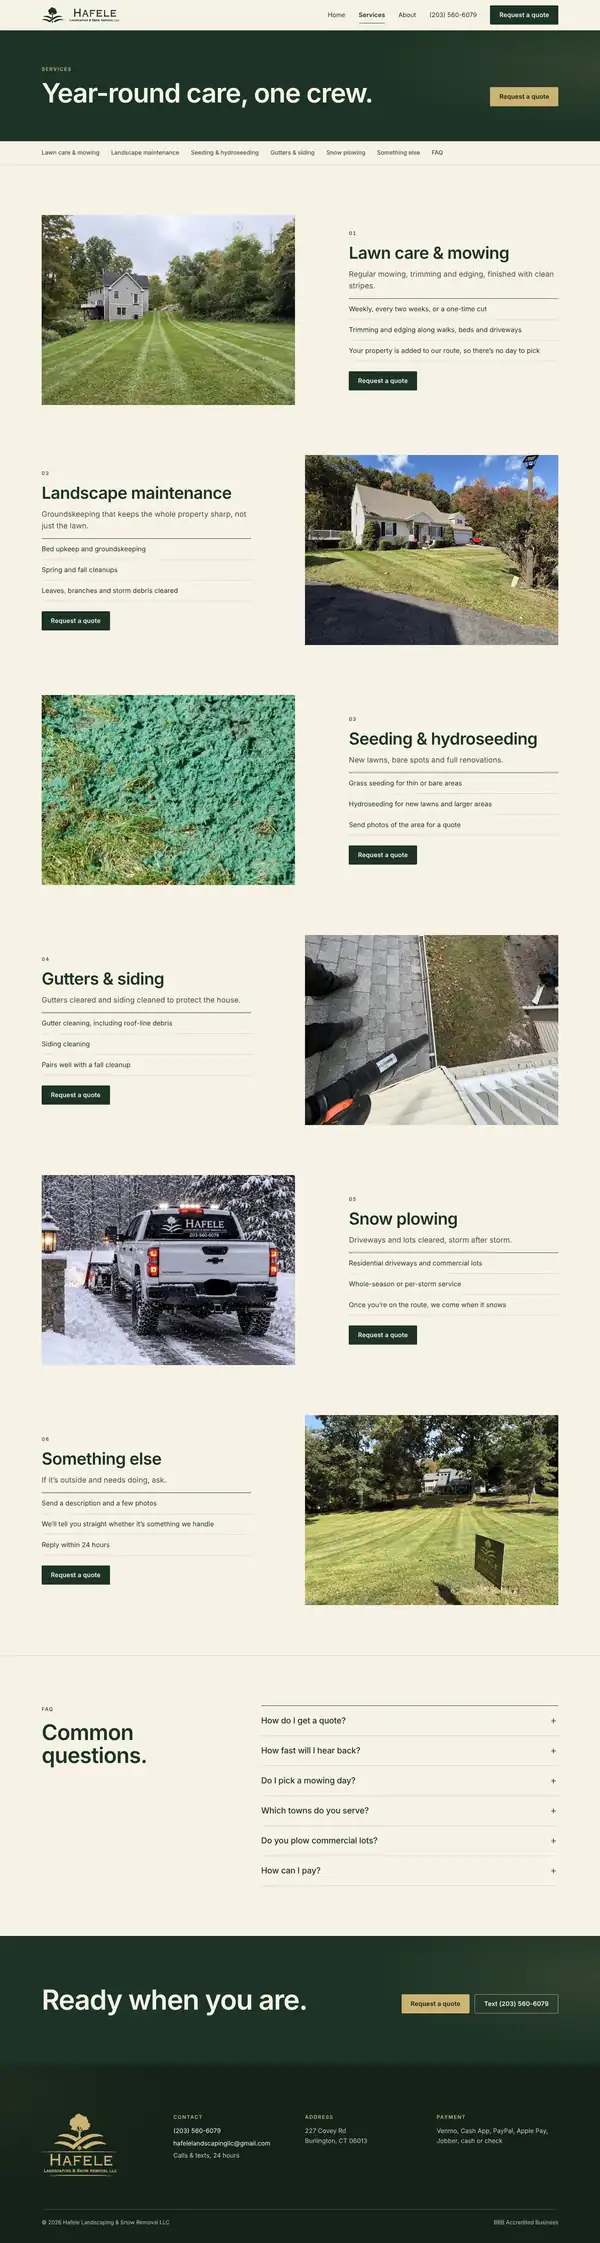
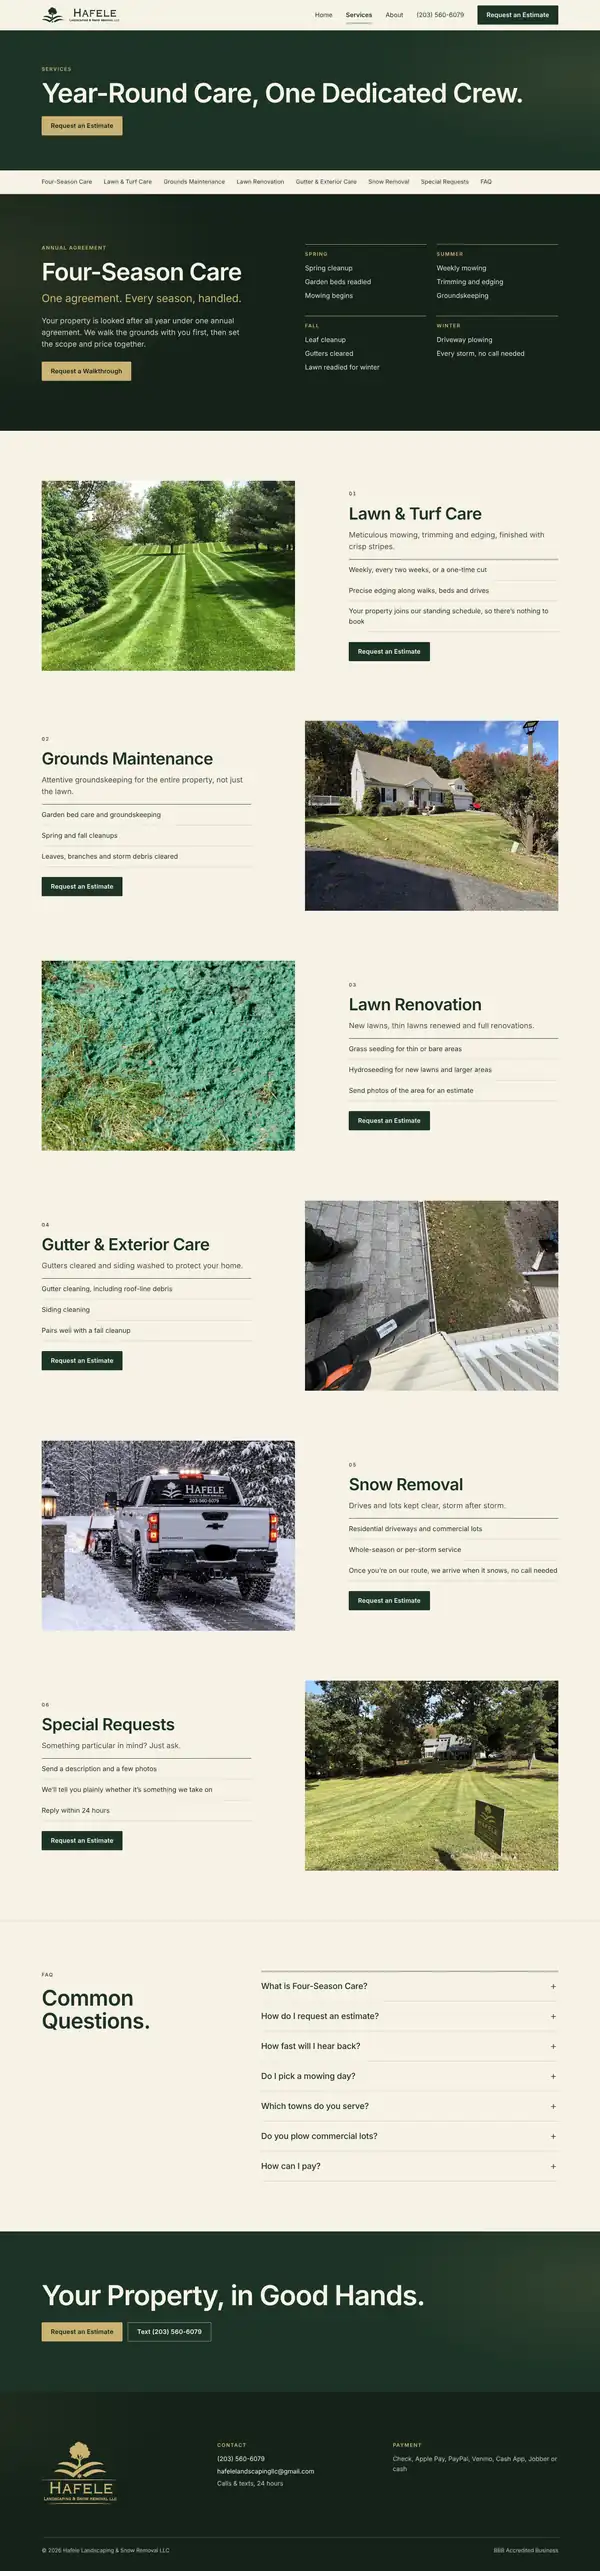
Update Hafele showcase for the seasonal site
- Re-shoot Home, Services and About on desktop and phone (seasonal
  hero, Four-Season Care band, refined service names, title case)
- Write-up: seasons chosen by date, Four-Season Care annual agreement,
  estimate wording, smooth scrolling
- Bump screenshot version so browsers load the new images

Claude-Session: https://claude.ai/code/session_01S1GkKjA7JTsXNm3XxvC6Wo

diff --git a/index.html b/index.html
@@ -9,12 +9,12 @@
 <meta property="og:url" content="https://b0to1q.github.io/BRANDED-BY-G/">
 <meta property="og:title" content="Branded by G">
 <meta property="og:description" content="Websites for local businesses in Connecticut. Built right. Owned by you.">
-<meta property="og:image" content="https://b0to1q.github.io/BRANDED-BY-G/og.png?v=3">
+<meta property="og:image" content="https://b0to1q.github.io/BRANDED-BY-G/og.png?v=4">
 <meta property="og:image:width" content="1200">
 <meta property="og:image:height" content="630">
 <meta property="og:image:alt" content="Branded by G.">
 <meta name="twitter:card" content="summary_large_image">
-<meta name="twitter:image" content="https://b0to1q.github.io/BRANDED-BY-G/og.png?v=3">
+<meta name="twitter:image" content="https://b0to1q.github.io/BRANDED-BY-G/og.png?v=4">
 <meta name="theme-color" content="#2A2D2B">
 <link rel="preconnect" href="https://fonts.googleapis.com">
 <link rel="preconnect" href="https://fonts.gstatic.com" crossorigin>
@@ -152,7 +152,7 @@ dl.spec a{color:var(--c-acc)}
 .zvp{flex:1;min-height:0;overflow-y:auto;overscroll-behavior:contain;background:#fff;-webkit-overflow-scrolling:touch}
 .zvp img{display:block;width:100%;height:auto}
 .zvp{background-color:#fff;background-size:cover;background-position:center top;background-repeat:no-repeat}
-.shot.bgdani{background:#0B1416 url(img/v3/bg-dani-d.webp?v=3) center top/cover no-repeat}
+.shot.bgdani{background:#0B1416 url(img/v3/bg-dani-d.webp?v=4) center top/cover no-repeat}
 .zframe.phone{width:min(392px,100%);border-radius:34px;padding:4px}
 .zframe.phone .bar{display:none}
 .zframe.phone .zvp{border-radius:30px}
@@ -227,9 +227,9 @@ a:focus-visible{outline:3px solid var(--acc);outline-offset:3px;border-radius:4p
       <p class="where">George Blanchard Jr. · Plantsville, Connecticut</p>
     </div>
     <div class="stage" aria-hidden="true">
-      <div class="br s1"><div class="bar"><i></i><i></i><i></i><span>Hafele Landscaping &amp; Snow Removal</span></div><img src="img/v3/d-hafele-home.webp?v=3" alt=""></div>
-      <div class="br s2"><div class="bar"><i></i><i></i><i></i><span>Dani Hamm — Prints &amp; goods</span></div><img src="img/v3/d-dani-shop.webp?v=3" alt="" style="background:#0B1416 url(img/v3/bg-dani-d.webp?v=3) center top/cover no-repeat"></div>
-      <div class="ph s3"><img src="img/v3/m-hafele-home.webp?v=3" alt=""></div>
+      <div class="br s1"><div class="bar"><i></i><i></i><i></i><span>Hafele Landscaping &amp; Snow Removal</span></div><img src="img/v3/d-hafele-home.webp?v=4" alt=""></div>
+      <div class="br s2"><div class="bar"><i></i><i></i><i></i><span>Dani Hamm — Prints &amp; goods</span></div><img src="img/v3/d-dani-shop.webp?v=4" alt="" style="background:#0B1416 url(img/v3/bg-dani-d.webp?v=4) center top/cover no-repeat"></div>
+      <div class="ph s3"><img src="img/v3/m-hafele-home.webp?v=4" alt=""></div>
     </div>
   </div>
 </section>
@@ -240,35 +240,35 @@ a:focus-visible{outline:3px solid var(--acc);outline-offset:3px;border-radius:4p
     <p class="sub">Every page of every site. Tap one to open it full size and scroll through it.</p>
     <div class="grid">
       <button class="tile" type="button" data-i="0" style="--t-bg:#1D3326;--t-ink:#F6F2E6;--t-acc:#CBB373" aria-label="Open Hafele Landscaping, Home page">
-        <span class="shot"><img src="img/v3/t-hafele-home.webp?v=3" alt="" loading="lazy"></span>
+        <span class="shot"><img src="img/v3/t-hafele-home.webp?v=4" alt="" loading="lazy"></span>
         <span class="lbl"><span class="cl">Hafele Landscaping</span><span class="pg">Home</span></span>
       </button>
       <button class="tile" type="button" data-i="1" style="--t-bg:#1D3326;--t-ink:#F6F2E6;--t-acc:#CBB373" aria-label="Open Hafele Landscaping, Services page">
-        <span class="shot"><img src="img/v3/t-hafele-services.webp?v=3" alt="" loading="lazy"></span>
+        <span class="shot"><img src="img/v3/t-hafele-services.webp?v=4" alt="" loading="lazy"></span>
         <span class="lbl"><span class="cl">Hafele Landscaping</span><span class="pg">Services</span></span>
       </button>
       <button class="tile" type="button" data-i="2" style="--t-bg:#1D3326;--t-ink:#F6F2E6;--t-acc:#CBB373" aria-label="Open Hafele Landscaping, About &amp; contact page">
-        <span class="shot"><img src="img/v3/t-hafele-about.webp?v=3" alt="" loading="lazy"></span>
+        <span class="shot"><img src="img/v3/t-hafele-about.webp?v=4" alt="" loading="lazy"></span>
         <span class="lbl"><span class="cl">Hafele Landscaping</span><span class="pg">About &amp; contact</span></span>
       </button>
       <button class="tile" type="button" data-i="3" style="--t-bg:#121A1D;--t-ink:#E9EEF0;--t-acc:#8FB1B8" aria-label="Open Dani Hamm, Home page">
-        <span class="shot bgdani"><img src="img/v3/t-dani-home.webp?v=3" alt="" loading="lazy"></span>
+        <span class="shot bgdani"><img src="img/v3/t-dani-home.webp?v=4" alt="" loading="lazy"></span>
         <span class="lbl"><span class="cl">Dani Hamm</span><span class="pg">Home</span></span>
       </button>
       <button class="tile" type="button" data-i="4" style="--t-bg:#121A1D;--t-ink:#E9EEF0;--t-acc:#8FB1B8" aria-label="Open Dani Hamm, Shop page">
-        <span class="shot bgdani"><img src="img/v3/t-dani-shop.webp?v=3" alt="" loading="lazy"></span>
+        <span class="shot bgdani"><img src="img/v3/t-dani-shop.webp?v=4" alt="" loading="lazy"></span>
         <span class="lbl"><span class="cl">Dani Hamm</span><span class="pg">Shop</span></span>
       </button>
       <button class="tile" type="button" data-i="5" style="--t-bg:#121A1D;--t-ink:#E9EEF0;--t-acc:#8FB1B8" aria-label="Open Dani Hamm, Product page">
-        <span class="shot bgdani"><img src="img/v3/t-dani-product.webp?v=3" alt="" loading="lazy"></span>
+        <span class="shot bgdani"><img src="img/v3/t-dani-product.webp?v=4" alt="" loading="lazy"></span>
         <span class="lbl"><span class="cl">Dani Hamm</span><span class="pg">Product</span></span>
       </button>
       <button class="tile" type="button" data-i="6" style="--t-bg:#121A1D;--t-ink:#E9EEF0;--t-acc:#8FB1B8" aria-label="Open Dani Hamm, About page">
-        <span class="shot bgdani"><img src="img/v3/t-dani-about.webp?v=3" alt="" loading="lazy"></span>
+        <span class="shot bgdani"><img src="img/v3/t-dani-about.webp?v=4" alt="" loading="lazy"></span>
         <span class="lbl"><span class="cl">Dani Hamm</span><span class="pg">About</span></span>
       </button>
       <button class="tile" type="button" data-i="7" style="--t-bg:#121A1D;--t-ink:#E9EEF0;--t-acc:#8FB1B8" aria-label="Open Dani Hamm, Contact page">
-        <span class="shot bgdani"><img src="img/v3/t-dani-contact.webp?v=3" alt="" loading="lazy"></span>
+        <span class="shot bgdani"><img src="img/v3/t-dani-contact.webp?v=4" alt="" loading="lazy"></span>
         <span class="lbl"><span class="cl">Dani Hamm</span><span class="pg">Contact</span></span>
       </button>
     </div>
@@ -281,22 +281,24 @@ a:focus-visible{outline:3px solid var(--acc);outline-offset:3px;border-radius:4p
       <div><p class="kind">Client build · Landscaping &amp; snow removal</p><h2 id="haf-h">Hafele Landscaping</h2></div>
       <div class="acts"><span class="tag">Draft with the owner</span><button class="open" type="button" data-open="0">Open the preview <svg viewBox="0 0 16 16" fill="none" stroke="currentColor" stroke-width="2" aria-hidden="true"><path d="M10 2h4v4M6 14H2v-4M14 2 9 7M2 14l5-5"/></svg></button><a class="live" href="https://b0to1q.github.io/HAFELE/" target="_blank" rel="noopener">Visit the live site <svg viewBox="0 0 16 16" fill="none" stroke="currentColor" stroke-width="2" aria-hidden="true"><path d="M6 3h7v7M13 3 4 12"/></svg></a></div>
     </div>
-    <p class="lead">A quote in two taps, from the driveway — and a site as sharp as the stripes on their lawns.</p>
+    <p class="lead">A site that knows what season it is — and an estimate in two taps, from the driveway.</p>
     <div class="cgrid">
       <div class="copy">
-        <p>Hafele is a Burlington, CT crew covering lawns, landscapes, hydroseeding, gutters and plowing across fifteen towns. The brief: classic, professional, built to last — and turn visits into quote requests.</p>
+        <p>Hafele is a Burlington, CT crew covering lawn and turf care, grounds maintenance, lawn renovation, gutters and snow removal across fifteen towns in Hartford and Litchfield counties. The brief: classic, professional, built to last — and turn visits into estimate requests.</p>
         <ul class="built">
-          <li><strong>Two-step quote request.</strong> Pick a service, a day and a time window (snow skips the day), then name, cell and address. Send opens a text to the owner with everything filled in, with an email fallback.</li>
-          <li><strong>Call, Text and Get a quote</strong> pinned to the bottom of the screen on phones.</li>
-          <li><strong>Three pages:</strong> Home, Services with a common-questions section, and About &amp; Contact.</li>
-          <li><strong>Real job photos</strong> from the crew, straightened and cropped, plus a walk-around video.</li>
-          <li><strong>Small touches:</strong> a soft sun glow and ground fog on the hero, sections that fade up as you scroll, and a Verse of the Day strip above the footer.</li>
+          <li><strong>A site that changes with the seasons.</strong> It reads today's date and switches to spring, summer, fall or winter, with a season tone on the hero photo and quote options for that time of year, like Fall Cleanup or Reserve Snow Removal. Visitors can flip between seasons with tabs.</li>
+          <li><strong>Four-Season Care.</strong> An annual agreement for year-round upkeep, with its own band on Home and Services, a request-a-walkthrough button, and an option in every season.</li>
+          <li><strong>Two-step estimate request.</strong> Pick a service and a time window, then name, cell and address. Send opens a text to the owner with everything filled in, with an email fallback.</li>
+          <li><strong>Call, Text and Get an Estimate</strong> pinned to the bottom of the screen on phones.</li>
+          <li><strong>Three pages:</strong> Home, Services with common questions, and About &amp; Contact, written for homeowners in plain language.</li>
+          <li><strong>Small touches:</strong> real job photos and a walk-around video, sections that fade up as you scroll, smooth scrolling with a mouse or trackpad, and a Verse of the Day above the footer.</li>
         </ul>
       </div>
       <dl class="spec">
         <dt>Location</dt><dd>Burlington, CT</dd>
         <dt>Brand</dt><dd><span class="swatch" style="background:#1D3326"></span>Forest green · <span class="swatch" style="background:#CBB373"></span>Gold, on their own logo</dd>
         <dt>Pages</dt><dd>Home · Services · About &amp; Contact</dd>
+        <dt>Seasons</dt><dd>Spring · Summer · Fall · Winter, chosen by date</dd>
         <dt>Built with</dt><dd>Hand-written HTML, CSS and JavaScript — fast, no page builder</dd>
         <dt>Next</dt><dd>Requests flow straight into Jobber</dd>
         <dt>Live</dt><dd><a href="https://b0to1q.github.io/HAFELE/" target="_blank" rel="noopener">b0to1q.github.io/HAFELE</a></dd>
@@ -416,7 +418,7 @@ a:focus-visible{outline:3px solid var(--acc);outline-offset:3px;border-radius:4p
 <footer><div class="wrap"><span><strong style="font-family:var(--disp);font-weight:900;font-stretch:125%;letter-spacing:-.035em;color:var(--ink)">Branded by G<span class="dot">.</span></strong> · Built right. Owned by you.</span><span>© 2026 George Blanchard Jr.</span></div></footer>
 <script>
 {
-  const ITEMS = [{"s": "haf", "p": "Home", "k": "hafele-home", "u": "https://b0to1q.github.io/HAFELE/", "a": "Hafele home page: striped lawn hero with a quote request, quick facts, six services with job photos, service area, Verse of the Day and footer"}, {"s": "haf", "p": "Services", "k": "hafele-services", "u": "https://b0to1q.github.io/HAFELE/services.html", "a": "Hafele services page: six services with job photos and quote buttons, then common questions"}, {"s": "haf", "p": "About & contact", "k": "hafele-about", "u": "https://b0to1q.github.io/HAFELE/about.html", "a": "Hafele about and contact page"}, {"s": "dani", "p": "Home", "k": "dani-home", "u": "https://b0to1q.github.io/DANIHAMM/", "a": "Dani Hamm home page: name over a misty hero, three full-screen scenes, then the filterable portfolio", "g": "dani"}, {"s": "dani", "p": "Shop", "k": "dani-shop", "u": "https://b0to1q.github.io/DANIHAMM/shop.html", "a": "Dani Hamm shop: prints and goods, eight products", "g": "dani"}, {"s": "dani", "p": "Product", "k": "dani-product", "u": "https://b0to1q.github.io/DANIHAMM/product.html?item=mug", "a": "Dani Hamm product page for a mug: pick the photo, options and quantity", "g": "dani"}, {"s": "dani", "p": "About", "k": "dani-about", "u": "https://b0to1q.github.io/DANIHAMM/about.html", "a": "Dani Hamm about page", "g": "dani"}, {"s": "dani", "p": "Contact", "k": "dani-contact", "u": "https://b0to1q.github.io/DANIHAMM/contact.html", "a": "Dani Hamm contact page with an inquiry form", "g": "dani"}];
+  const ITEMS = [{"s": "haf", "p": "Home", "k": "hafele-home", "u": "https://b0to1q.github.io/HAFELE/", "a": "Hafele home page: hero with a seasonal estimate request, quick facts, six services with job photos, the Four-Season Care band, service area, Verse of the Day and footer"}, {"s": "haf", "p": "Services", "k": "hafele-services", "u": "https://b0to1q.github.io/HAFELE/services.html", "a": "Hafele services page: Four-Season Care, then six services with job photos and estimate buttons, then common questions"}, {"s": "haf", "p": "About & contact", "k": "hafele-about", "u": "https://b0to1q.github.io/HAFELE/about.html", "a": "Hafele about and contact page"}, {"s": "dani", "p": "Home", "k": "dani-home", "u": "https://b0to1q.github.io/DANIHAMM/", "a": "Dani Hamm home page: name over a misty hero, three full-screen scenes, then the filterable portfolio", "g": "dani"}, {"s": "dani", "p": "Shop", "k": "dani-shop", "u": "https://b0to1q.github.io/DANIHAMM/shop.html", "a": "Dani Hamm shop: prints and goods, eight products", "g": "dani"}, {"s": "dani", "p": "Product", "k": "dani-product", "u": "https://b0to1q.github.io/DANIHAMM/product.html?item=mug", "a": "Dani Hamm product page for a mug: pick the photo, options and quantity", "g": "dani"}, {"s": "dani", "p": "About", "k": "dani-about", "u": "https://b0to1q.github.io/DANIHAMM/about.html", "a": "Dani Hamm about page", "g": "dani"}, {"s": "dani", "p": "Contact", "k": "dani-contact", "u": "https://b0to1q.github.io/DANIHAMM/contact.html", "a": "Dani Hamm contact page with an inquiry form", "g": "dani"}];
   const SITES = {"haf": {"name": "Hafele Landscaping", "tag": "Client build", "live": "https://b0to1q.github.io/HAFELE/", "bg": "#1D3326", "ink": "#F6F2E6", "acc": "#CBB373", "rule": "#38533F", "soft": "#C9CFBF"}, "dani": {"name": "Dani Hamm", "tag": "Spec concept", "live": "https://b0to1q.github.io/DANIHAMM/", "bg": "#121A1D", "ink": "#E9EEF0", "acc": "#8FB1B8", "rule": "#2A3639", "soft": "#A3B1B5"}};
   const $ = id => document.getElementById(id);
   const zoom = $('zoom'), frame = $('zframe'), vp = $('zvp'), img = $('zimg'), tabs = $('ztabs'), dots = $('zdots');
@@ -435,8 +437,8 @@ a:focus-visible{outline:3px solid var(--acc);outline-offset:3px;border-radius:4p
 
   const paint = it => {
     const sz = mode === 'phone' ? 'm' : 'd';
-    img.src = 'img/v3/' + sz + '-' + it.k + '.webp?v=3';
-    vp.style.backgroundImage = it.g ? `url(img/v3/bg-${it.g}-${sz}.webp?v=3)` : 'none';
+    img.src = 'img/v3/' + sz + '-' + it.k + '.webp?v=4';
+    vp.style.backgroundImage = it.g ? `url(img/v3/bg-${it.g}-${sz}.webp?v=4)` : 'none';
     vp.style.backgroundColor = it.g ? '#0B1416' : '#fff';
   };
   const setMode = m => {
@@ -461,7 +463,7 @@ a:focus-visible{outline:3px solid var(--acc);outline-offset:3px;border-radius:4p
     tabs.querySelector('[aria-selected=true]')?.scrollIntoView({block: 'nearest', inline: 'nearest'});
     dots.innerHTML = ITEMS.map((x, j) => `<i class="${j === cur ? 'on' : ''}"></i>`).join('');
     if (dir) { frame.classList.remove('slide-l', 'slide-r'); void frame.offsetWidth; frame.classList.add(dir > 0 ? 'slide-l' : 'slide-r'); }
-    [cur - 1, cur + 1].forEach(j => { const x = ITEMS[(j + ITEMS.length) % ITEMS.length]; new Image().src = 'img/v3/' + (mode === 'phone' ? 'm-' : 'd-') + x.k + '.webp?v=3'; });
+    [cur - 1, cur + 1].forEach(j => { const x = ITEMS[(j + ITEMS.length) % ITEMS.length]; new Image().src = 'img/v3/' + (mode === 'phone' ? 'm-' : 'd-') + x.k + '.webp?v=4'; });
   };
 
   const rectClip = r => `inset(${r.top}px ${innerWidth - r.right}px ${innerHeight - r.bottom}px ${r.left}px round 14px)`;
